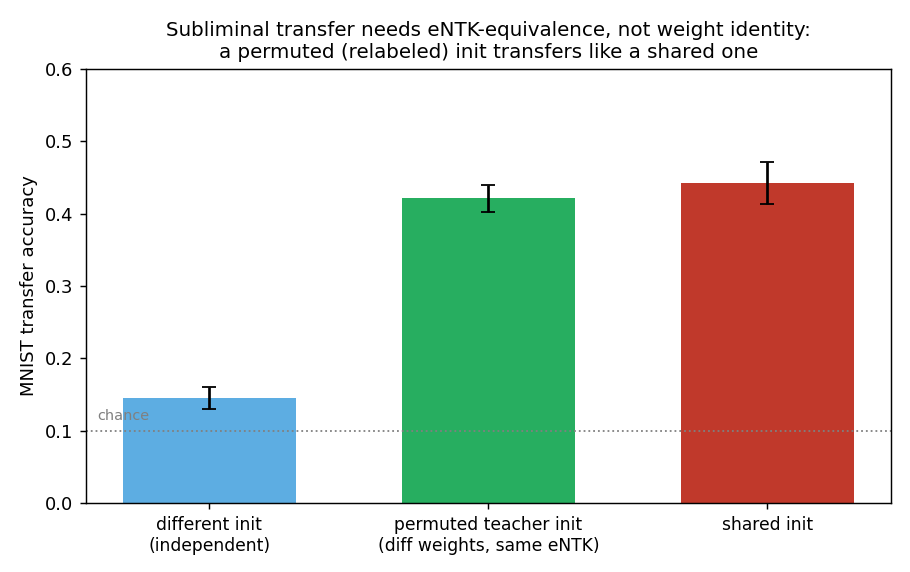
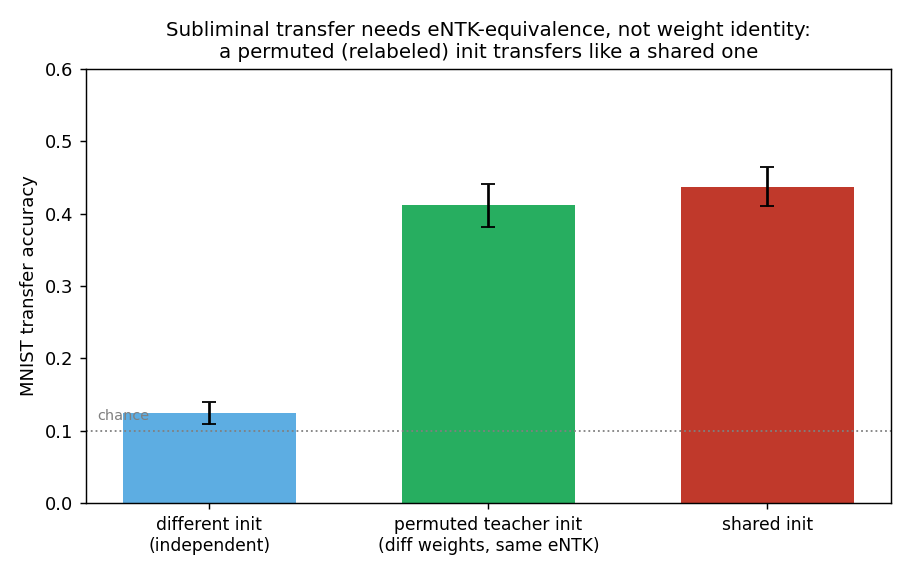
ARC-17 blogpost: firm up Phase 8 & 10 to n=6 (run on Modal)
Both conclusions hold at 6 seeds:
- Phase 8 (holy grail): only full sharing transfers (0.46); every structured-
  sharing variant at chance (0.08-0.13). Subspace eNTK overlap doesn't govern.
- Phase 10 (permutation): permuted init 0.41 ± 0.03 ≈ shared 0.44, ≫ diff 0.12.

Figures + captions + footer synced to n=6; postmortem caveat updated. Adds
modal_seedbump.py — parallel Modal CPU dispatch used to run these (keeps heavy
runs off the shared node). Phase 7 (n=6) remains the corrected null.

Changed region(s): [[0.1231, 0.6836, 0.3385, 0.743], [0.7385, 0.2675, 0.9538, 0.3269], [0.4308, 0.3269, 0.6462, 0.3864]]

diff --git a/jarvis-os/docs/posts/entk-and-subliminal-learning/index.html b/jarvis-os/docs/posts/entk-and-subliminal-learning/index.html
@@ -222,9 +222,9 @@ permuted init has completely different weight tensors and transfers just like a 
 <figure>
   <img src="phase10_permutation.png" alt="Phase 10 permutation">
   <figcaption><b>Different weights, identical eNTK → transfer.</b> A permuted (relabeled) copy of the
-  teacher's init transfers like a shared init (~0.42 vs ~0.44), far above an independent init (~0.15).
-  The requirement is eNTK-equivalence, not weight identity. (Caveat: a permutation is a symmetry — the
-  network computes the same function — so this is the trivial corner of the space.)</figcaption>
+  teacher's init transfers like a shared init (~0.41 vs ~0.44), far above an independent init (~0.12);
+  6 seeds. The requirement is eNTK-equivalence, not weight identity. (Caveat: a permutation is a
+  symmetry — the network computes the same function — so this is the trivial corner of the space.)</figcaption>
 </figure>
 
 <p><b>Why the non-trivial version is hard.</b> The genuinely interesting goal is two networks that
@@ -263,8 +263,9 @@ blocked by the lazy/rich tension.</li>
 
 <hr>
 <p class="foot">Reproduction + analysis of arXiv:2507.14805 §6.2 (the MNIST MLP; the LLM number-
-sequence transmission is a separate setting). CPU, small MLPs; seed counts vary by panel (2–10) — the
-structured-sharing and permutation panels are 2 seeds and the dose-response/width/rotation panels 3–6. Code, specs, and figures: <code>experiments/2026-06-17-entk-subliminal/</code>.
+sequence transmission is a separate setting). CPU, small MLPs; seed counts vary by panel (2–10): the
+reproduction panel is 10 seeds, the linearized-sweep panel 2, and the rest 3–6 (the n=6 panels were
+run on Modal). Code, specs, and figures: <code>experiments/2026-06-17-entk-subliminal/</code>.
 Linear ARC-17.</p>
 
 </body>

diff --git a/jarvis-os/site/posts/entk-and-subliminal-learning/index.html b/jarvis-os/site/posts/entk-and-subliminal-learning/index.html
@@ -222,9 +222,9 @@ permuted init has completely different weight tensors and transfers just like a 
 <figure>
   <img src="phase10_permutation.png" alt="Phase 10 permutation">
   <figcaption><b>Different weights, identical eNTK → transfer.</b> A permuted (relabeled) copy of the
-  teacher's init transfers like a shared init (~0.42 vs ~0.44), far above an independent init (~0.15).
-  The requirement is eNTK-equivalence, not weight identity. (Caveat: a permutation is a symmetry — the
-  network computes the same function — so this is the trivial corner of the space.)</figcaption>
+  teacher's init transfers like a shared init (~0.41 vs ~0.44), far above an independent init (~0.12);
+  6 seeds. The requirement is eNTK-equivalence, not weight identity. (Caveat: a permutation is a
+  symmetry — the network computes the same function — so this is the trivial corner of the space.)</figcaption>
 </figure>
 
 <p><b>Why the non-trivial version is hard.</b> The genuinely interesting goal is two networks that
@@ -263,8 +263,9 @@ blocked by the lazy/rich tension.</li>
 
 <hr>
 <p class="foot">Reproduction + analysis of arXiv:2507.14805 §6.2 (the MNIST MLP; the LLM number-
-sequence transmission is a separate setting). CPU, small MLPs; seed counts vary by panel (2–10) — the
-structured-sharing and permutation panels are 2 seeds and the dose-response/width/rotation panels 3–6. Code, specs, and figures: <code>experiments/2026-06-17-entk-subliminal/</code>.
+sequence transmission is a separate setting). CPU, small MLPs; seed counts vary by panel (2–10): the
+reproduction panel is 10 seeds, the linearized-sweep panel 2, and the rest 3–6 (the n=6 panels were
+run on Modal). Code, specs, and figures: <code>experiments/2026-06-17-entk-subliminal/</code>.
 Linear ARC-17.</p>
 
 </body>

diff --git a/jarvis-os/experiments/2026-06-17-entk-subliminal/modal_seedbump.py b/jarvis-os/experiments/2026-06-17-entk-subliminal/modal_seedbump.py
@@ -1,0 +1,49 @@
+"""Run the ARC-17 seed-bumps (phase8, phase10) on parallel Modal CPU containers.
+
+    modal run modal_seedbump.py
+
+Each phase runs in its own 8-CPU container; the resulting results/<phase>.json is returned
+and written back into the local results/ dir. Figures are made locally afterwards.
+"""
+import os
+import modal
+
+EXP = os.path.dirname(os.path.abspath(__file__))
+
+image = (
+    modal.Image.debian_slim(python_version="3.11")
+    .pip_install("numpy")
+    .pip_install("torch", index_url="https://download.pytorch.org/whl/cpu")
+    .add_local_dir(EXP, remote_path="/root/exp",
+                   ignore=["mnist", "results", "__pycache__", "*.png", "*.log", "*.json", "*.md"])
+)
+app = modal.App("arc17-seedbump")
+
+
+@app.function(image=image, cpu=8.0, timeout=3600)
+def run_phase(script: str, json_name: str, seeds: int):
+    import subprocess
+    os.chdir("/root/exp")
+    os.makedirs("results", exist_ok=True)
+    r = subprocess.run(["python", "-u", script, "--seeds", str(seeds)],
+                       capture_output=True, text=True)
+    jpath = f"results/{json_name}"
+    content = open(jpath).read() if os.path.exists(jpath) else None
+    tail = (r.stdout + "\n" + r.stderr)[-2500:]
+    return {"json_name": json_name, "content": content, "rc": r.returncode, "tail": tail}
+
+
+@app.local_entrypoint()
+def main():
+    jobs = [("phase8_structured.py", "phase8.json"), ("phase10_permutation.py", "phase10.json")]
+    handles = [run_phase.spawn(s, j, 6) for s, j in jobs]
+    for h in handles:
+        res = h.get()
+        print(f"\n===== {res['json_name']} (rc={res['rc']}) =====")
+        print(res["tail"])
+        if res["content"]:
+            with open(os.path.join(EXP, "results", res["json_name"]), "w") as f:
+                f.write(res["content"])
+            print(f"[wrote results/{res['json_name']}]")
+        else:
+            print("[no json produced — see tail above]")

diff --git a/jarvis-os/experiments/2026-06-17-entk-subliminal/postmortem.md b/jarvis-os/experiments/2026-06-17-entk-subliminal/postmortem.md
@@ -205,7 +205,7 @@ same init" demonstration. `phase10_permutation.py`.
 | P11 | permutation (same eNTK, diff weights) transfers | 0.85 | ✓✓ (0.42 ≈ shared 0.44) |
 
 ## Caveats
-Phases 8/10 are n=2 (qualitatively clear; bump before publishing). Phase 4's null
+Phases 8/10 bumped to n=6 on Modal (holy-grail null and permutation result both hold: structured sharing 0.08-0.13 vs full 0.46; permuted 0.41 ≈ shared 0.44). Phase 4's null
 is the lazy *linearization*, not proof no eNTK-based account exists. The holy grail
 is refuted only for the easy structured tricks + the subspace metric; a
 basis-sensitive eNTK-matching construction in the rich regime remains the open test.
